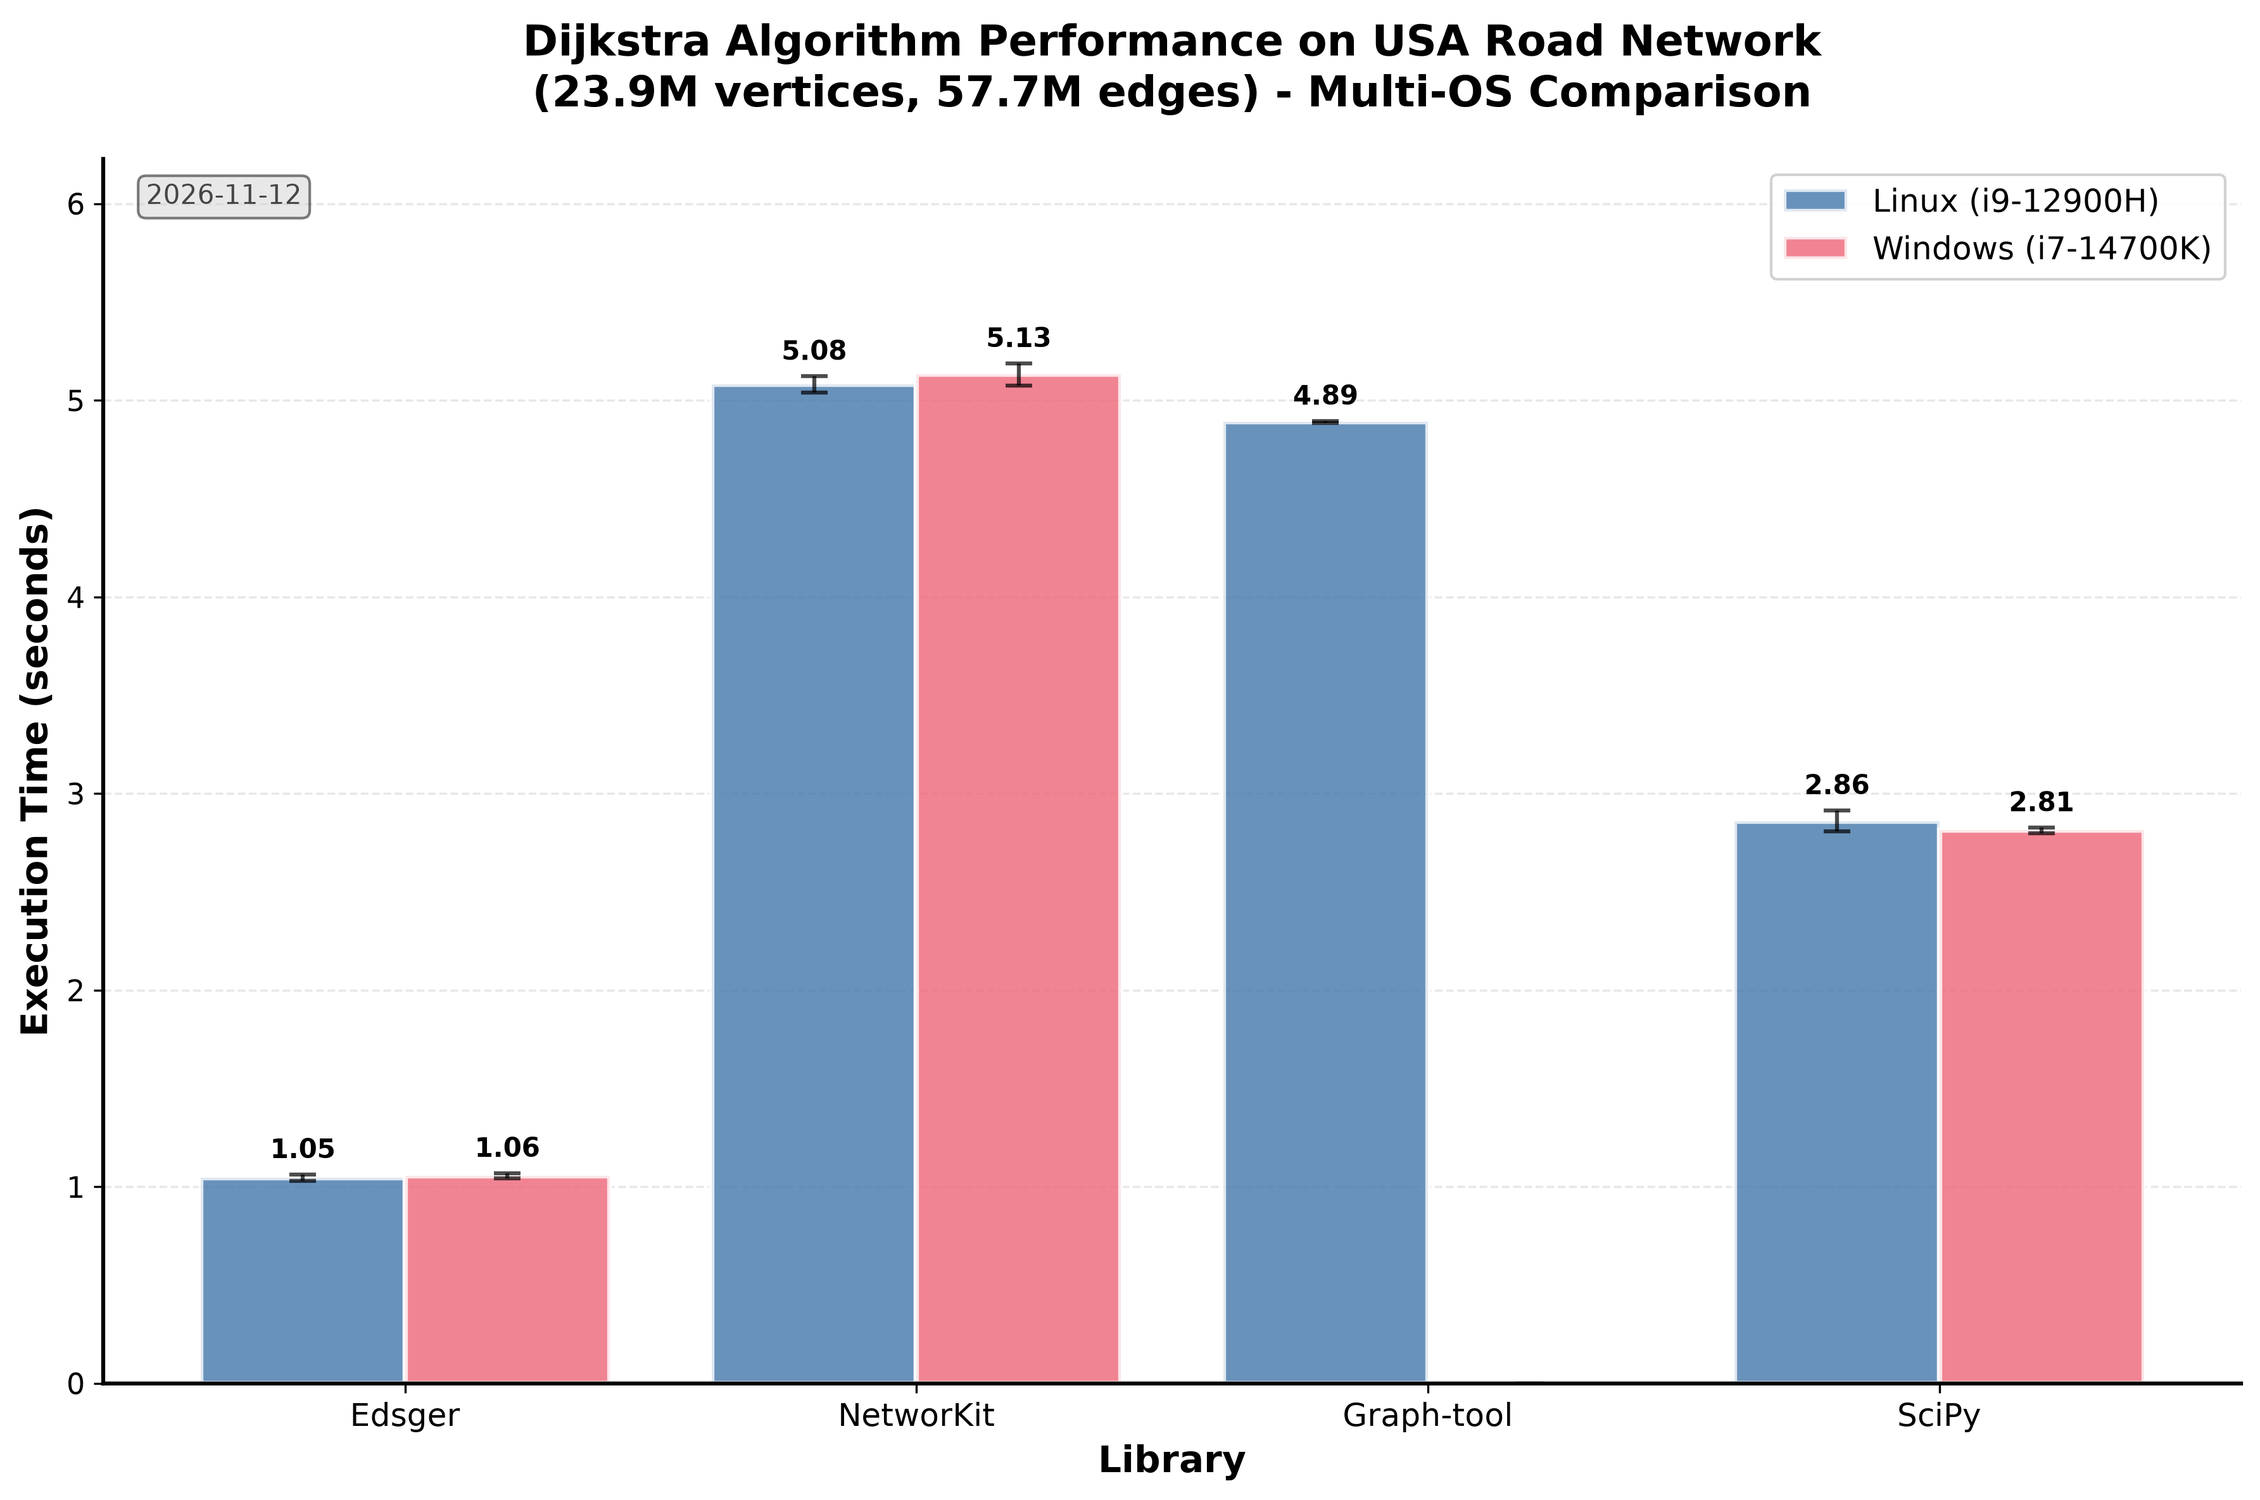
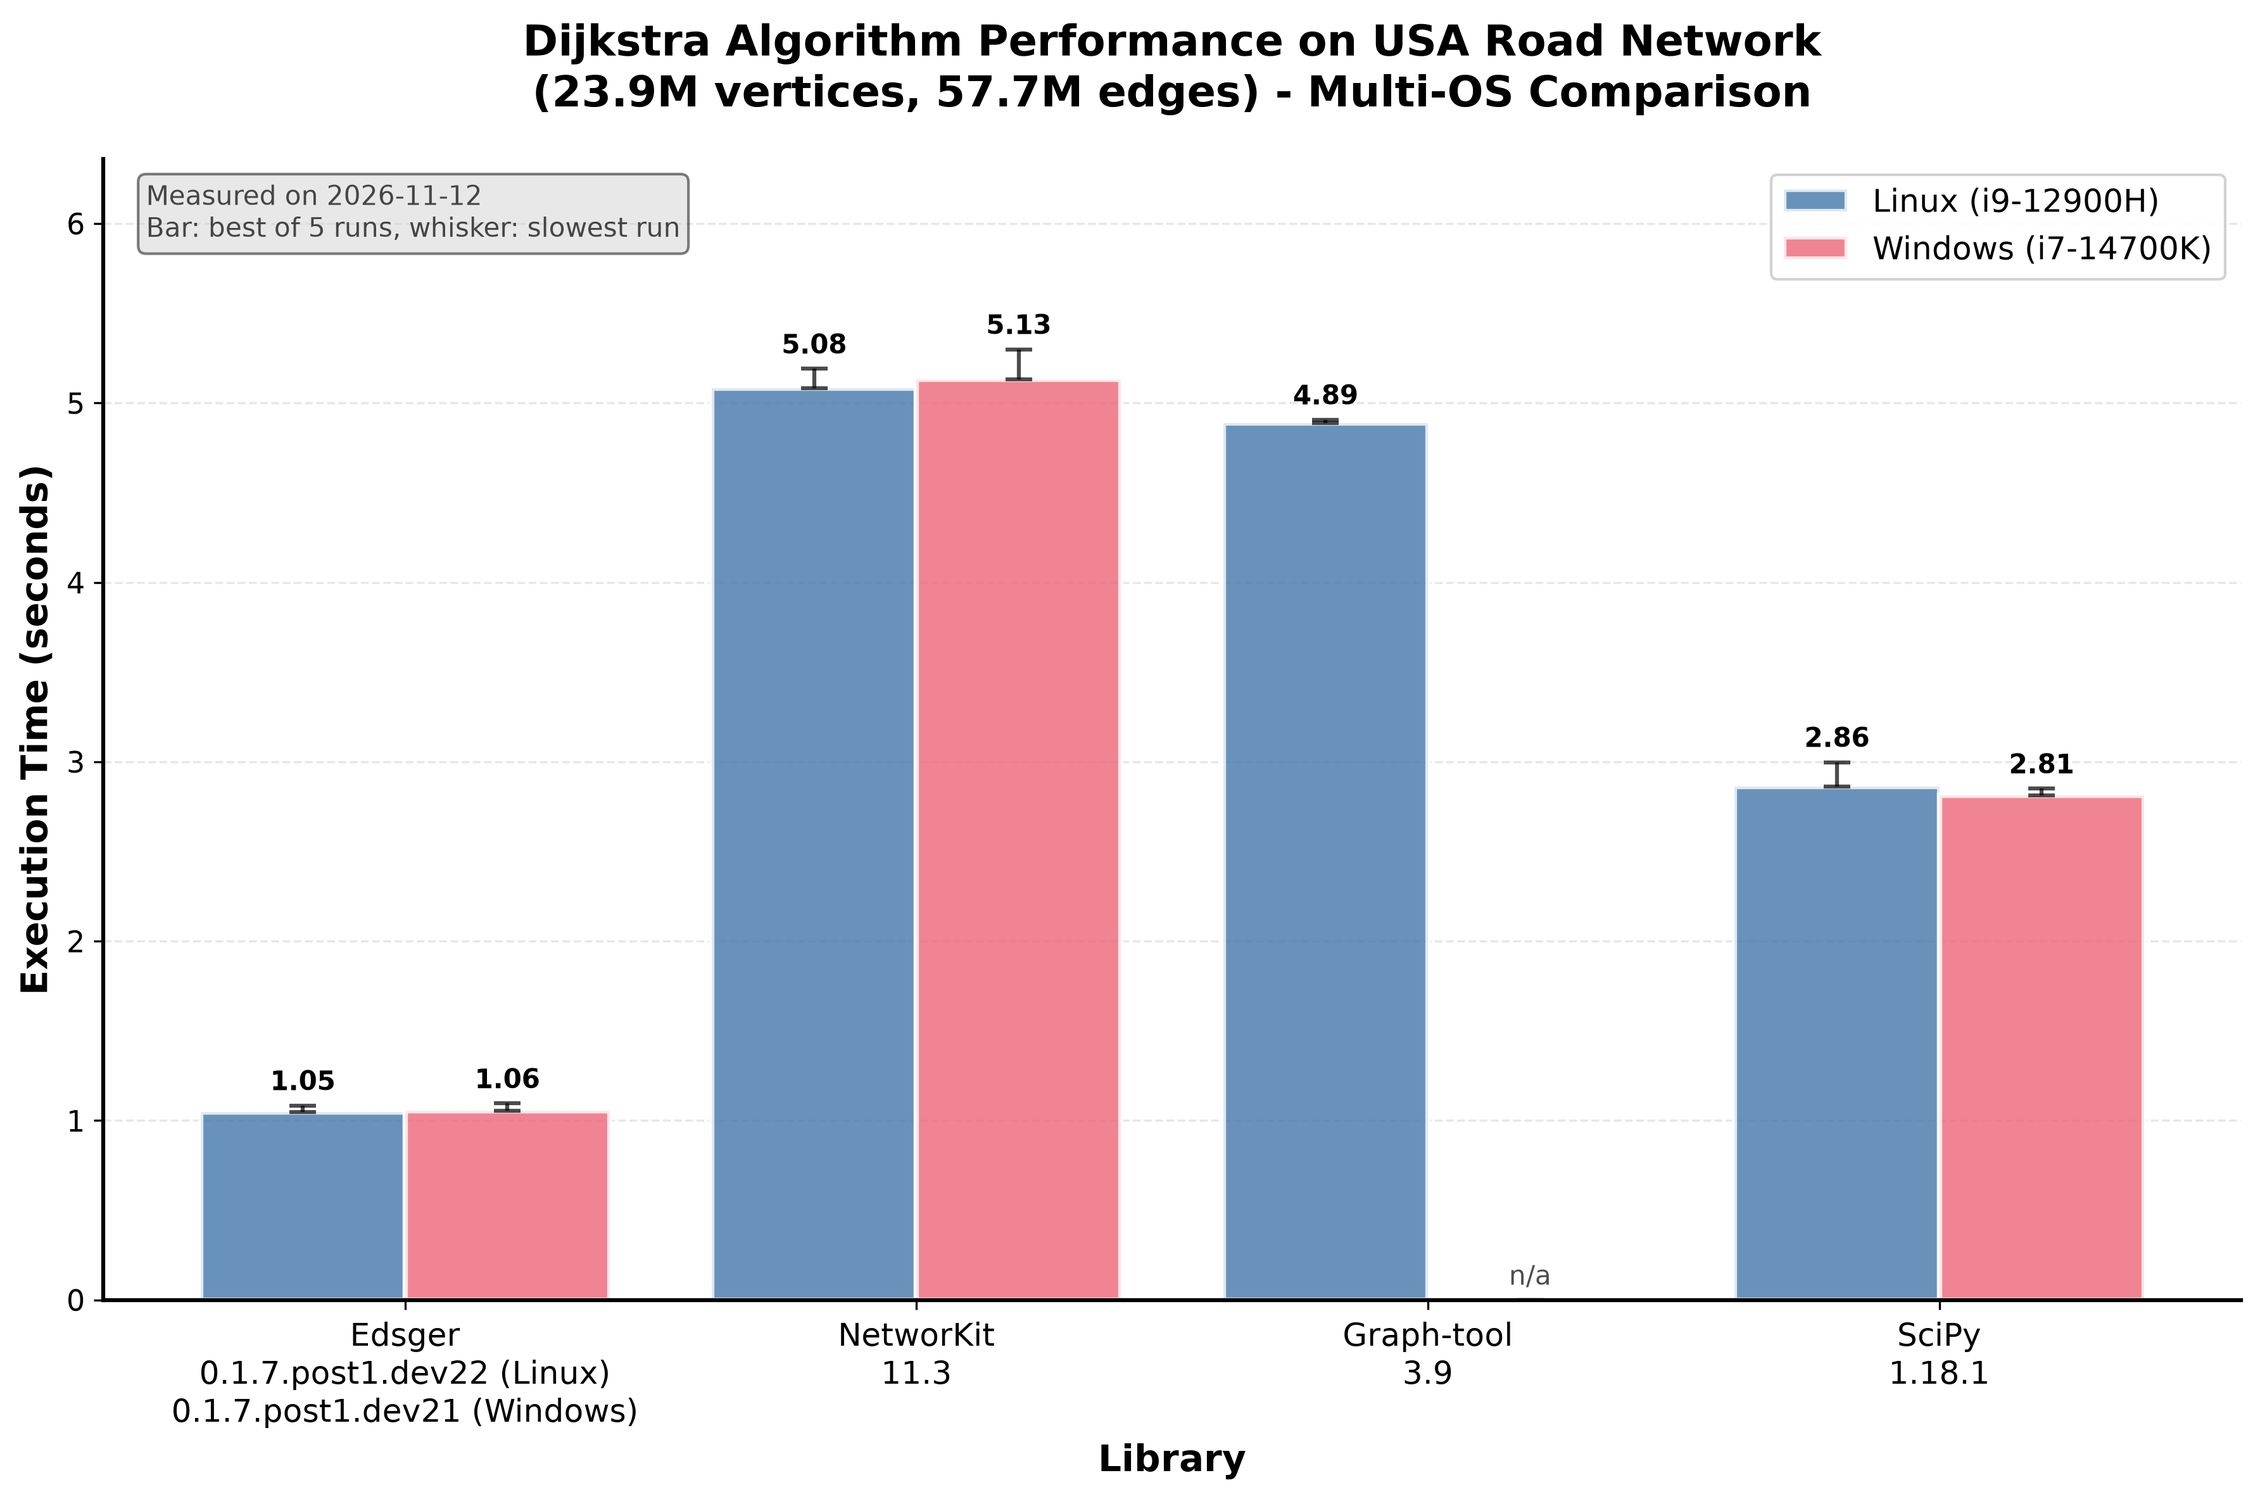
Benchmark plot: whiskers from best to slowest run, benchmark dates, library versions, recorded CPU model
- the whiskers were drawn as min +/- std and extended below the best run:
  they now go from the best run up to the slowest one
- the date on the plot is the date of the benchmark runs, read from the
  JSON files, instead of the date of the plot
- the library versions are shown under the library names, and a library
  that is not available on a system is marked n/a
- benchmark_comparison_os.py records the processor model (cpu_model) in
  the results, and the plot script reads it instead of hard-coding the
  names. The field is added to the two existing result files: read from
  the machine for Linux, taken from the former hard-coded label for
  Windows

diff --git a/scripts/plot_benchmark_comparison.py b/scripts/plot_benchmark_comparison.py
@@ -6,12 +6,14 @@ Reads benchmark_dimacs_USA_*.json files and creates comparison plots showing
 performance across different libraries and operating systems.
 """
 
-import os
+import glob
 import json
+import os
+import re
+import sys
+
 import matplotlib.pyplot as plt
 import numpy as np
-from datetime import datetime
-import glob
 
 
 def clean_version(version_str):
@@ -30,38 +32,38 @@ def clean_version(version_str):
     return version_str
 
 
-def extract_processor_model(processor_str, os_name):
-    """Extract a clean processor model name from the system info."""
-    import re
+def extract_processor_model(system_info):
+    """Short processor name for the legend, from the benchmark results.
 
-    if not processor_str:
-        return None
+    The model is the one recorded by benchmark_comparison_os.py when the
+    benchmark was run ("cpu_model"). Returns None if it is not known.
+    """
+    cpu_model = system_info.get("cpu_model") or system_info.get("processor") or ""
 
-    # Try to extract Intel Core model (e.g., i7-14700K, i9-12900H)
-    match = re.search(r"i[3579]-\d{4,5}[A-Z]*", processor_str)
+    # Intel Core model (e.g. i7-14700K, i9-12900H)
+    match = re.search(r"i[3579]-\d{4,5}[A-Z]*", cpu_model)
     if match:
         return match.group(0)
 
-    # For Windows, the processor string is like "Intel64 Family 6 Model 183..."
-    # Map known model numbers to processor names
-    model_mapping = {
-        "Model 183": "i7-14700K",  # Raptor Lake Refresh
-        "Model 154": "i9-12900H",  # Alder Lake
-    }
-    for model_id, name in model_mapping.items():
-        if model_id in processor_str:
-            return name
+    # platform.processor() often only gives the architecture or a family number
+    if not system_info.get("cpu_model"):
+        return None
 
-    # Fallback for known OS/processor combinations where platform.processor()
-    # only returns architecture (e.g., "x86_64" on Linux)
-    os_processor_fallback = {
-        "linux": "i9-12900H",  # Alder Lake
-        "windows": "i7-14700K",  # Raptor Lake Refresh
-    }
-    if processor_str in ("x86_64", "AMD64"):
-        return os_processor_fallback.get(os_name)
+    # Other models: remove the trademark signs, the frequency and the core count
+    name = re.sub(r"\((R|TM|r|tm)\)", "", cpu_model)
+    name = re.sub(r"\s*@.*$", "", name)
+    name = re.sub(r"\b(CPU|Processor|\d+-Core)\b", "", name)
+    return " ".join(name.split()) or None
 
-    return None
+
+def benchmark_date(results):
+    """Date of the benchmark run (YYYY-MM-DD), from the results file."""
+    return results.get("timestamp", "")[:10] or "unknown date"
+
+
+def slowest_run(bench_result):
+    """Largest run time of a benchmark result (the bar shows the smallest)."""
+    return max(bench_result.get("times", [bench_result["min_time"]]))
 
 
 def load_benchmark_results():
@@ -127,6 +129,8 @@ def create_comparison_plot(
                         "min_time": bench_result["min_time"],
                         "avg_time": bench_result["avg_time"],
                         "std_time": bench_result["std_time"],
+                        "max_time": slowest_run(bench_result),
+                        "n_runs": len(bench_result.get("times", [])),
                         "version": results["system_info"].get(
                             f"{library_names[lib].lower()}_version", "?"
                         ),
@@ -155,8 +159,7 @@ def create_comparison_plot(
     # Build legend labels with processor info
     os_legend_labels = {}
     for os_name, results in all_results.items():
-        processor_str = results["system_info"].get("processor", "")
-        processor_model = extract_processor_model(processor_str, os_name)
+        processor_model = extract_processor_model(results["system_info"])
         if processor_model:
             os_legend_labels[os_name] = f"{os_name.capitalize()} ({processor_model})"
         else:
@@ -166,21 +169,17 @@ def create_comparison_plot(
     for i, os_name in enumerate(os_list):
         positions = x + (i - len(os_list) / 2 + 0.5) * width
         min_times = []
-        std_times = []
-        labels = []
+        max_times = []
 
         for lib in libraries_to_plot:
             if os_name in plot_data[lib]:
                 min_times.append(plot_data[lib][os_name]["min_time"])
-                std_times.append(plot_data[lib][os_name]["std_time"])
-                version = clean_version(plot_data[lib][os_name]["version"])
-                labels.append(f"{library_names[lib]} {version}")
+                max_times.append(plot_data[lib][os_name]["max_time"])
             else:
                 min_times.append(0)  # Library not available on this OS
-                std_times.append(0)
-                labels.append(f"{library_names[lib]} N/A")
+                max_times.append(0)
 
-        # Plot bars
+        # Plot bars: best run
         bars = ax.bar(
             positions,
             min_times,
@@ -192,11 +191,13 @@ def create_comparison_plot(
             linewidth=2,
         )
 
-        # Add error bars
+        # Whiskers: from the best run up to the slowest one. They cannot go
+        # below the bar, since the bar is the smallest measured time.
+        spread = np.array(max_times) - np.array(min_times)
         ax.errorbar(
             positions,
             min_times,
-            yerr=std_times,
+            yerr=[np.zeros(len(spread)), spread],
             fmt="none",
             ecolor="black",
             capsize=5,
@@ -210,12 +211,22 @@ def create_comparison_plot(
             if height > 0:  # Only label if library was benchmarked
                 ax.text(
                     bar.get_x() + bar.get_width() / 2.0,
-                    height + std_times[j] + 0.05,
+                    max_times[j] + 0.05,
                     f"{height:.2f}",
                     ha="center",
                     va="bottom",
                     fontweight="bold",
                     fontsize=10,
+                )
+            else:
+                ax.text(
+                    bar.get_x() + bar.get_width() / 2.0,
+                    0.05,
+                    "n/a",
+                    ha="center",
+                    va="bottom",
+                    fontsize=10,
+                    alpha=0.7,
                 )
 
     # Styling
@@ -235,8 +246,23 @@ def create_comparison_plot(
         pad=20,
     )
 
+    # Library names with the versions that were measured: one version if it
+    # is the same on all the systems, one line per system otherwise
+    tick_labels = []
+    for lib in libraries_to_plot:
+        versions = {
+            os_name: clean_version(plot_data[lib][os_name]["version"])
+            for os_name in os_list
+            if os_name in plot_data[lib]
+        }
+        if len(set(versions.values())) == 1:
+            lines = list(set(versions.values()))
+        else:
+            lines = [f"{v} ({o.capitalize()})" for o, v in versions.items()]
+        tick_labels.append("\n".join([library_names[lib]] + lines))
+
     ax.set_xticks(x)
-    ax.set_xticklabels([library_names[lib] for lib in libraries_to_plot], fontsize=12)
+    ax.set_xticklabels(tick_labels, fontsize=12)
     ax.tick_params(axis="y", labelsize=11)
 
     # Add grid
@@ -248,10 +274,7 @@ def create_comparison_plot(
 
     # Improve layout
     y_max = max(
-        max(
-            plot_data[lib][os]["min_time"] + plot_data[lib][os]["std_time"]
-            for os in plot_data[lib]
-        )
+        max(plot_data[lib][os]["max_time"] for os in plot_data[lib])
         for lib in plot_data
         if plot_data[lib]
     )
@@ -261,8 +284,21 @@ def create_comparison_plot(
     ax.spines["left"].set_linewidth(1.5)
     ax.spines["bottom"].set_linewidth(1.5)
 
-    # Add date info
-    info_text = datetime.now().strftime("%Y-%m-%d")
+    # Add the dates of the benchmark runs (not the date of the plot) and
+    # what the bars and whiskers are
+    dates = {os_name: benchmark_date(all_results[os_name]) for os_name in os_list}
+    if len(set(dates.values())) == 1:
+        info_text = f"Measured on {dates[os_list[0]]}"
+    else:
+        info_text = "\n".join(
+            f"{os_name.capitalize()}: measured on {date}"
+            for os_name, date in dates.items()
+        )
+    n_runs = {
+        plot_data[lib][os]["n_runs"] for lib in plot_data for os in plot_data[lib]
+    }
+    runs_text = f"{n_runs.pop()} runs" if len(n_runs) == 1 else "the runs"
+    info_text += f"\nBar: best of {runs_text}, whisker: slowest run"
     ax.text(
         0.02,
         0.98,
@@ -313,7 +349,7 @@ def create_single_os_plot(results, os_name, output_file=None):
     # Prepare data
     libraries = [r["library"] for r in benchmark_results]
     min_times = [r["min_time"] for r in benchmark_results]
-    std_times = [r["std_time"] for r in benchmark_results]
+    max_times = [slowest_run(r) for r in benchmark_results]
 
     # Create figure
     plt.style.use("default")
@@ -345,11 +381,12 @@ def create_single_os_plot(results, os_name, output_file=None):
         width=0.6,
     )
 
-    # Add error bars
+    # Whiskers: from the best run up to the slowest one
+    spread = np.array(max_times) - np.array(min_times)
     ax.errorbar(
         x_pos,
         min_times,
-        yerr=std_times,
+        yerr=[np.zeros(len(spread)), spread],
         fmt="none",
         ecolor="black",
         capsize=8,
@@ -380,7 +417,7 @@ def create_single_os_plot(results, os_name, output_file=None):
         height = bar.get_height()
         ax.text(
             bar.get_x() + bar.get_width() / 2.0,
-            height + std_times[i] + 0.1,
+            max_times[i] + 0.1,
             f"{height:.2f}s",
             ha="center",
             va="bottom",
@@ -389,14 +426,14 @@ def create_single_os_plot(results, os_name, output_file=None):
         )
 
     # Improve layout
-    ax.set_ylim(0, max(min_times) * 1.3)
+    ax.set_ylim(0, max(max_times) * 1.3)
     ax.spines["top"].set_visible(False)
     ax.spines["right"].set_visible(False)
     ax.spines["left"].set_linewidth(1.5)
     ax.spines["bottom"].set_linewidth(1.5)
 
     # Add system info
-    info_text = f"Python {system_info['python_version']} • {system_info['platform']} • {datetime.now().strftime('%Y-%m-%d')}"
+    info_text = f"Python {system_info['python_version']} • {system_info['platform']} • {benchmark_date(results)}"
     ax.text(
         0.02,
         0.98,
@@ -447,6 +484,4 @@ def main():
 
 
 if __name__ == "__main__":
-    import sys
-
     main()

diff --git a/scripts/benchmark_comparison_os.py b/scripts/benchmark_comparison_os.py
@@ -17,6 +17,41 @@ import json
 from argparse import ArgumentParser
 
 
+def get_cpu_model():
+    """Return the model name of the processor, e.g. for the plot legend.
+
+    platform.processor() often only gives the architecture ("x86_64") or a
+    family number, so the model name is read from the operating system.
+    Returns an empty string if it cannot be found.
+    """
+    system = platform.system()
+    try:
+        if system == "Linux":
+            with open("/proc/cpuinfo", encoding="utf-8") as f:
+                for line in f:
+                    if line.startswith("model name"):
+                        return line.split(":", 1)[1].strip()
+        elif system == "Windows":
+            import winreg
+
+            key = winreg.OpenKey(
+                winreg.HKEY_LOCAL_MACHINE,
+                r"HARDWARE\DESCRIPTION\System\CentralProcessor\0",
+            )
+            return winreg.QueryValueEx(key, "ProcessorNameString")[0].strip()
+        elif system == "Darwin":
+            result = subprocess.run(
+                ["sysctl", "-n", "machdep.cpu.brand_string"],
+                capture_output=True,
+                text=True,
+            )
+            if result.returncode == 0:
+                return result.stdout.strip()
+    except (OSError, ImportError):
+        pass
+    return ""
+
+
 def get_system_info():
     """Collect system and package version information."""
     info = {}
@@ -27,6 +62,7 @@ def get_system_info():
     # Platform info
     info["platform"] = platform.platform()
     info["processor"] = platform.processor()
+    info["cpu_model"] = get_cpu_model()
     info["os_name"] = platform.system()  # Linux, Windows, Darwin
 
     # Anaconda/Conda version

diff --git a/scripts/README_benchmark_os.md b/scripts/README_benchmark_os.md
@@ -68,5 +68,6 @@ This will create:
 - **Graph-tool**: Not available on Windows and will be automatically skipped
 - **SciPy benchmarking**: Runs `dijkstra_dimacs.py` with Edsger + comparison (`-c` flag) multiple times to collect SciPy timing statistics, since SciPy only runs once per call in comparison mode
 - **Package detection**: Scripts detect available packages before running benchmarks
-- **Metadata**: Results include system information, Python version, and package versions
+- **Metadata**: Results include system information (with the processor model, shown in the plot legend), Python version, and package versions
+- **Plot**: Each bar is the best run and its whisker goes up to the slowest run. The date on the plot is the date of the benchmark runs, read from the JSON files
 - **Statistical reliability**: Benchmarks run 5 iterations by default for each library
